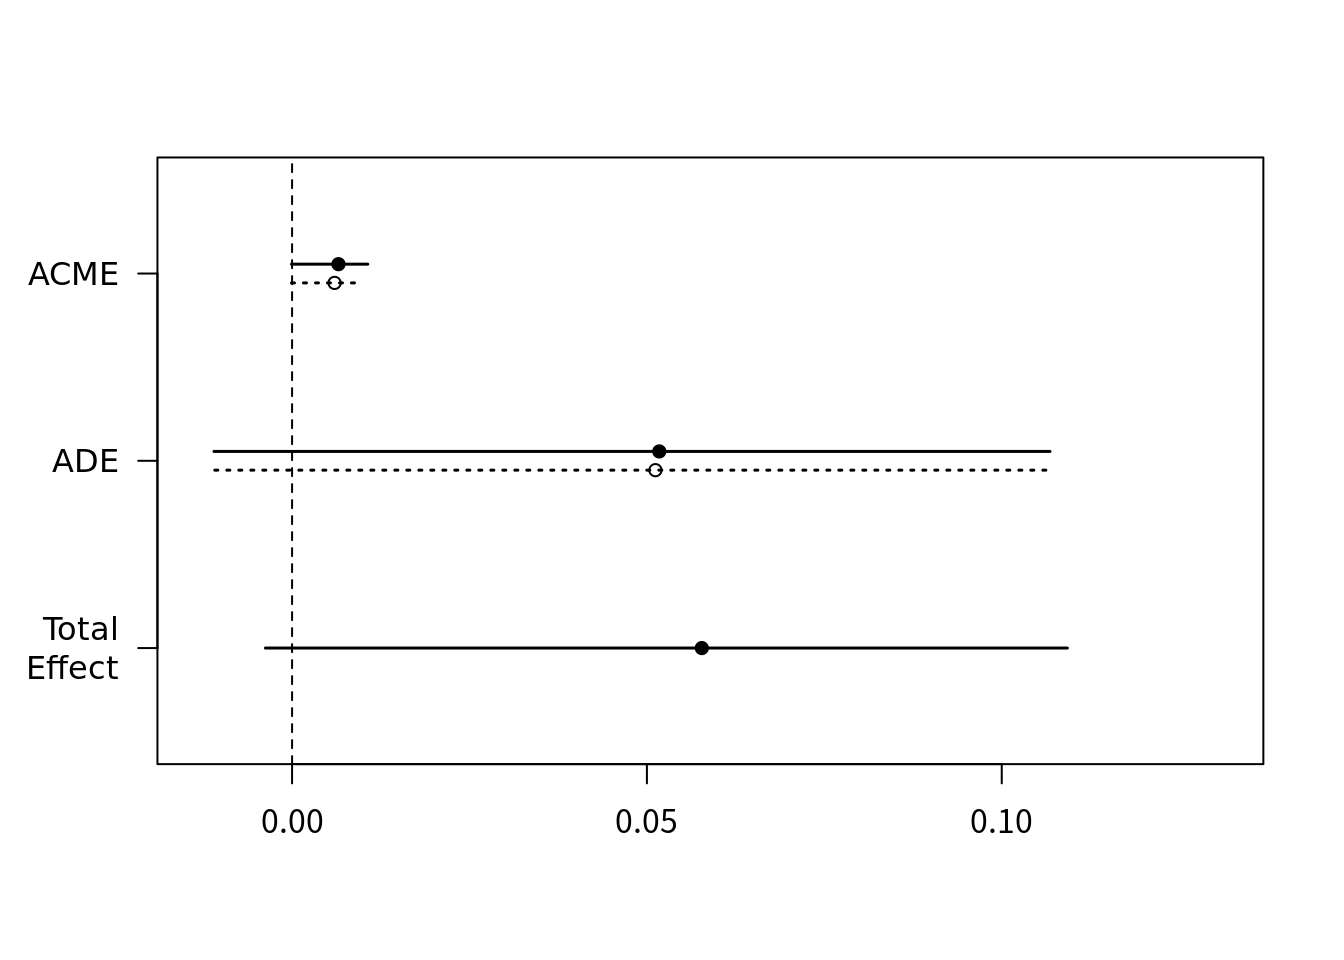
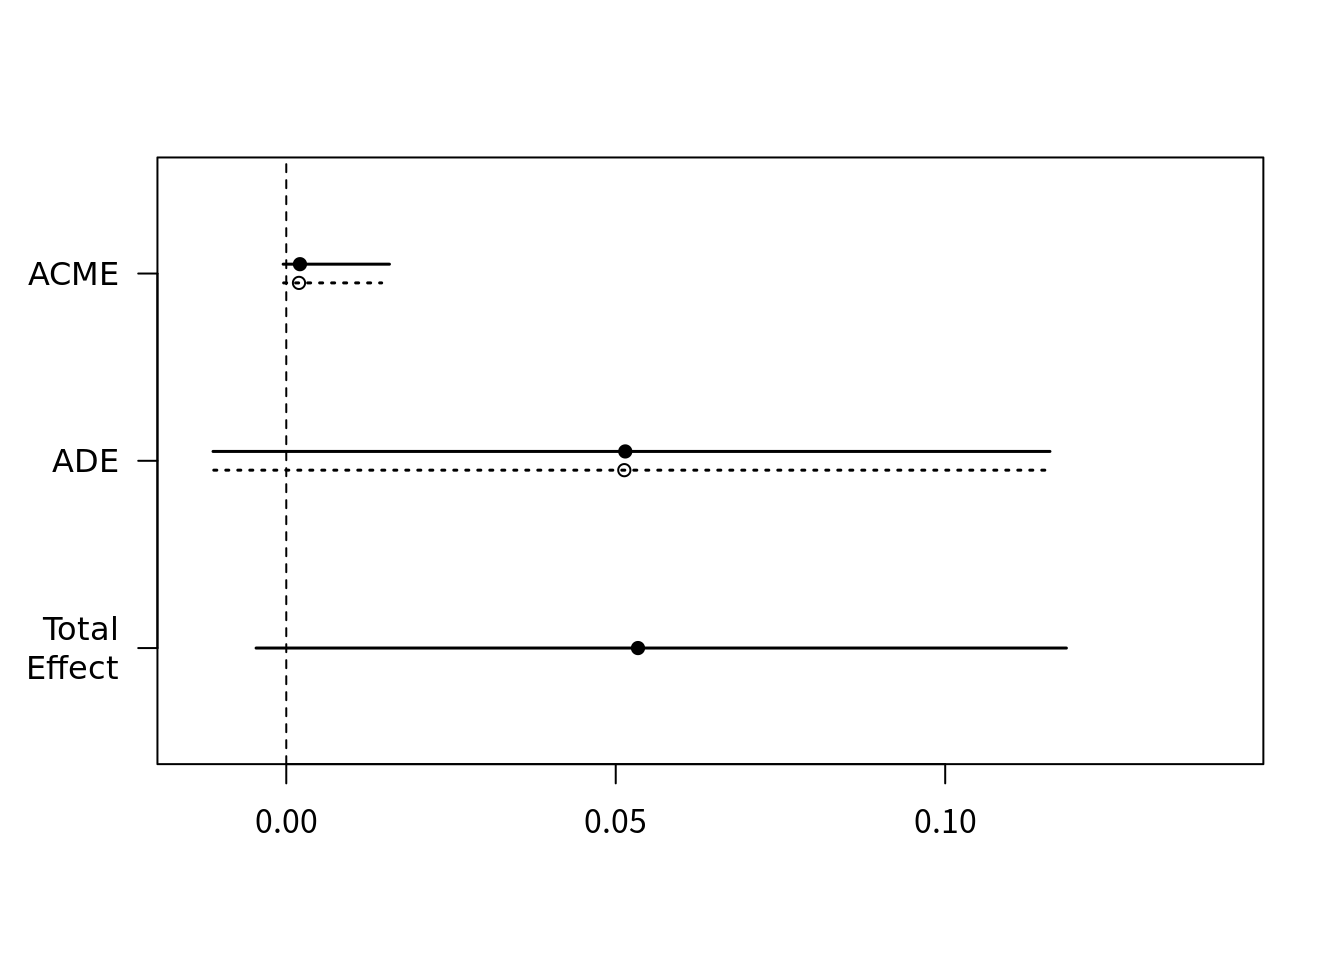
タイトル、修正

diff --git a/content/post/2021-02-25 Rによる因果媒介分析2/Rによる因果媒介分析2.html b/content/post/2021-02-25 Rによる因果媒介分析2/Rによる因果媒介分析2.html
@@ -13,7 +13,6 @@ thumbnailImage: https://n1.sdlcdn.com/imgs/e/a/a/Advances-in-Social-Science-Rese
 thumbnailImagePosition: left
 coverImage: http://tabisaku.cocolog-nifty.com/photo/pic/i023_w4.jpg
 coverSize: partial
-coverCaption: "A short caption (Source: Source)"
 ---
 
 <link href="Rによる因果媒介分析2_files/anchor-sections/anchor-sections.css" rel="stylesheet" />
@@ -53,17 +52,17 @@ data(&quot;jobs&quot;)</code></pre>
 ## 
 ## Nonparametric Bootstrap Confidence Intervals with the Percentile Method
 ## 
-##                           Estimate 95% CI Lower 95% CI Upper p-value
-## ACME (control)            0.002655    -0.000830         0.01    0.22
-## ACME (treated)            0.002856    -0.000880         0.01    0.22
-## ADE (control)             0.054072    -0.015256         0.12    0.10
-## ADE (treated)             0.054273    -0.015326         0.12    0.10
-## Total Effect              0.056928    -0.010891         0.12    0.10
-## Prop. Mediated (control)  0.046642    -0.061445         0.28    0.24
-## Prop. Mediated (treated)  0.050170    -0.060043         0.29    0.24
-## ACME (average)            0.002756    -0.000856         0.01    0.22
-## ADE (average)             0.054172    -0.015291         0.12    0.10
-## Prop. Mediated (average)  0.048406    -0.060744         0.28    0.24
+##                          Estimate 95% CI Lower 95% CI Upper p-value
+## ACME (control)            0.00266     -0.00168         0.01    0.22
+## ACME (treated)            0.00286     -0.00182         0.01    0.22
+## ADE (control)             0.05413     -0.02045         0.11    0.14
+## ADE (treated)             0.05433     -0.02055         0.11    0.14
+## Total Effect              0.05699     -0.01709         0.11    0.14
+## Prop. Mediated (control)  0.04665     -0.27222         0.18    0.36
+## Prop. Mediated (treated)  0.05016     -0.26421         0.19    0.36
+## ACME (average)            0.00276     -0.00175         0.01    0.22
+## ADE (average)             0.05423     -0.02050         0.11    0.14
+## Prop. Mediated (average)  0.04841     -0.26821         0.19    0.36
 ## 
 ## Sample Size Used: 899 
 ## 
@@ -88,19 +87,17 @@ data(&quot;jobs&quot;)</code></pre>
 ## 
 ## Nonparametric Bootstrap Confidence Intervals with the Percentile Method
 ## 
-##                           Estimate 95% CI Lower 95% CI Upper p-value  
-## ACME (control)            0.003845    -0.000428         0.01    0.14  
-## ACME (treated)            0.004202    -0.000456         0.01    0.14  
-## ADE (control)             0.052294    -0.005401         0.10    0.14  
-## ADE (treated)             0.052651    -0.005460         0.10    0.14  
-## Total Effect              0.056496    -0.000411         0.10    0.06 .
-## Prop. Mediated (control)  0.068054    -0.098001         1.61    0.20  
-## Prop. Mediated (treated)  0.074374    -0.095077         1.60    0.20  
-## ACME (average)            0.004023    -0.000442         0.01    0.14  
-## ADE (average)             0.052472    -0.005430         0.10    0.14  
-## Prop. Mediated (average)  0.071214    -0.096539         1.60    0.20  
-## ---
-## Signif. codes:  0 &#39;***&#39; 0.001 &#39;**&#39; 0.01 &#39;*&#39; 0.05 &#39;.&#39; 0.1 &#39; &#39; 1
+##                           Estimate 95% CI Lower 95% CI Upper p-value
+## ACME (control)            0.003661    -0.000930         0.01    0.12
+## ACME (treated)            0.003895    -0.000929         0.01    0.12
+## ADE (control)             0.052127    -0.020093         0.11    0.16
+## ADE (treated)             0.052362    -0.020139         0.11    0.16
+## Total Effect              0.056023    -0.018327         0.11    0.14
+## Prop. Mediated (control)  0.065341    -0.787246         0.44    0.22
+## Prop. Mediated (treated)  0.069532    -0.779056         0.44    0.22
+## ACME (average)            0.003778    -0.000929         0.01    0.12
+## ADE (average)             0.052245    -0.020116         0.11    0.16
+## Prop. Mediated (average)  0.067437    -0.783151         0.44    0.22
 ## 
 ## Sample Size Used: 899 
 ## 
@@ -123,16 +120,16 @@ data(&quot;jobs&quot;)</code></pre>
 ## Nonparametric Bootstrap Confidence Intervals with the Percentile Method
 ## 
 ##                           Estimate 95% CI Lower 95% CI Upper p-value
-## ACME (control)            5.99e-03    -8.58e-05         0.01    0.10
-## ACME (treated)            6.54e-03    -8.20e-05         0.01    0.10
-## ADE (control)             5.12e-02    -1.09e-02         0.11    0.16
-## ADE (treated)             5.17e-02    -1.10e-02         0.11    0.16
-## Total Effect              5.77e-02    -3.76e-03         0.11    0.12
-## Prop. Mediated (control)  1.04e-01    -9.62e-01         0.36    0.22
-## Prop. Mediated (treated)  1.13e-01    -9.43e-01         0.37    0.22
-## ACME (average)            6.26e-03    -8.39e-05         0.01    0.10
-## ADE (average)             5.15e-02    -1.10e-02         0.11    0.16
-## Prop. Mediated (average)  1.09e-01    -9.53e-01         0.36    0.22
+## ACME (control)            0.001931    -0.000400         0.01    0.12
+## ACME (treated)            0.002077    -0.000470         0.02    0.12
+## ADE (control)             0.051301    -0.010999         0.12    0.14
+## ADE (treated)             0.051446    -0.011113         0.12    0.14
+## Total Effect              0.053378    -0.004578         0.12    0.10
+## Prop. Mediated (control)  0.036182    -0.596896         0.57    0.18
+## Prop. Mediated (treated)  0.038907    -0.583680         0.58    0.18
+## ACME (average)            0.002004    -0.000435         0.02    0.12
+## ADE (average)             0.051374    -0.011056         0.12    0.14
+## Prop. Mediated (average)  0.037544    -0.590288         0.58    0.18
 ## 
 ## Sample Size Used: 899 
 ## 
